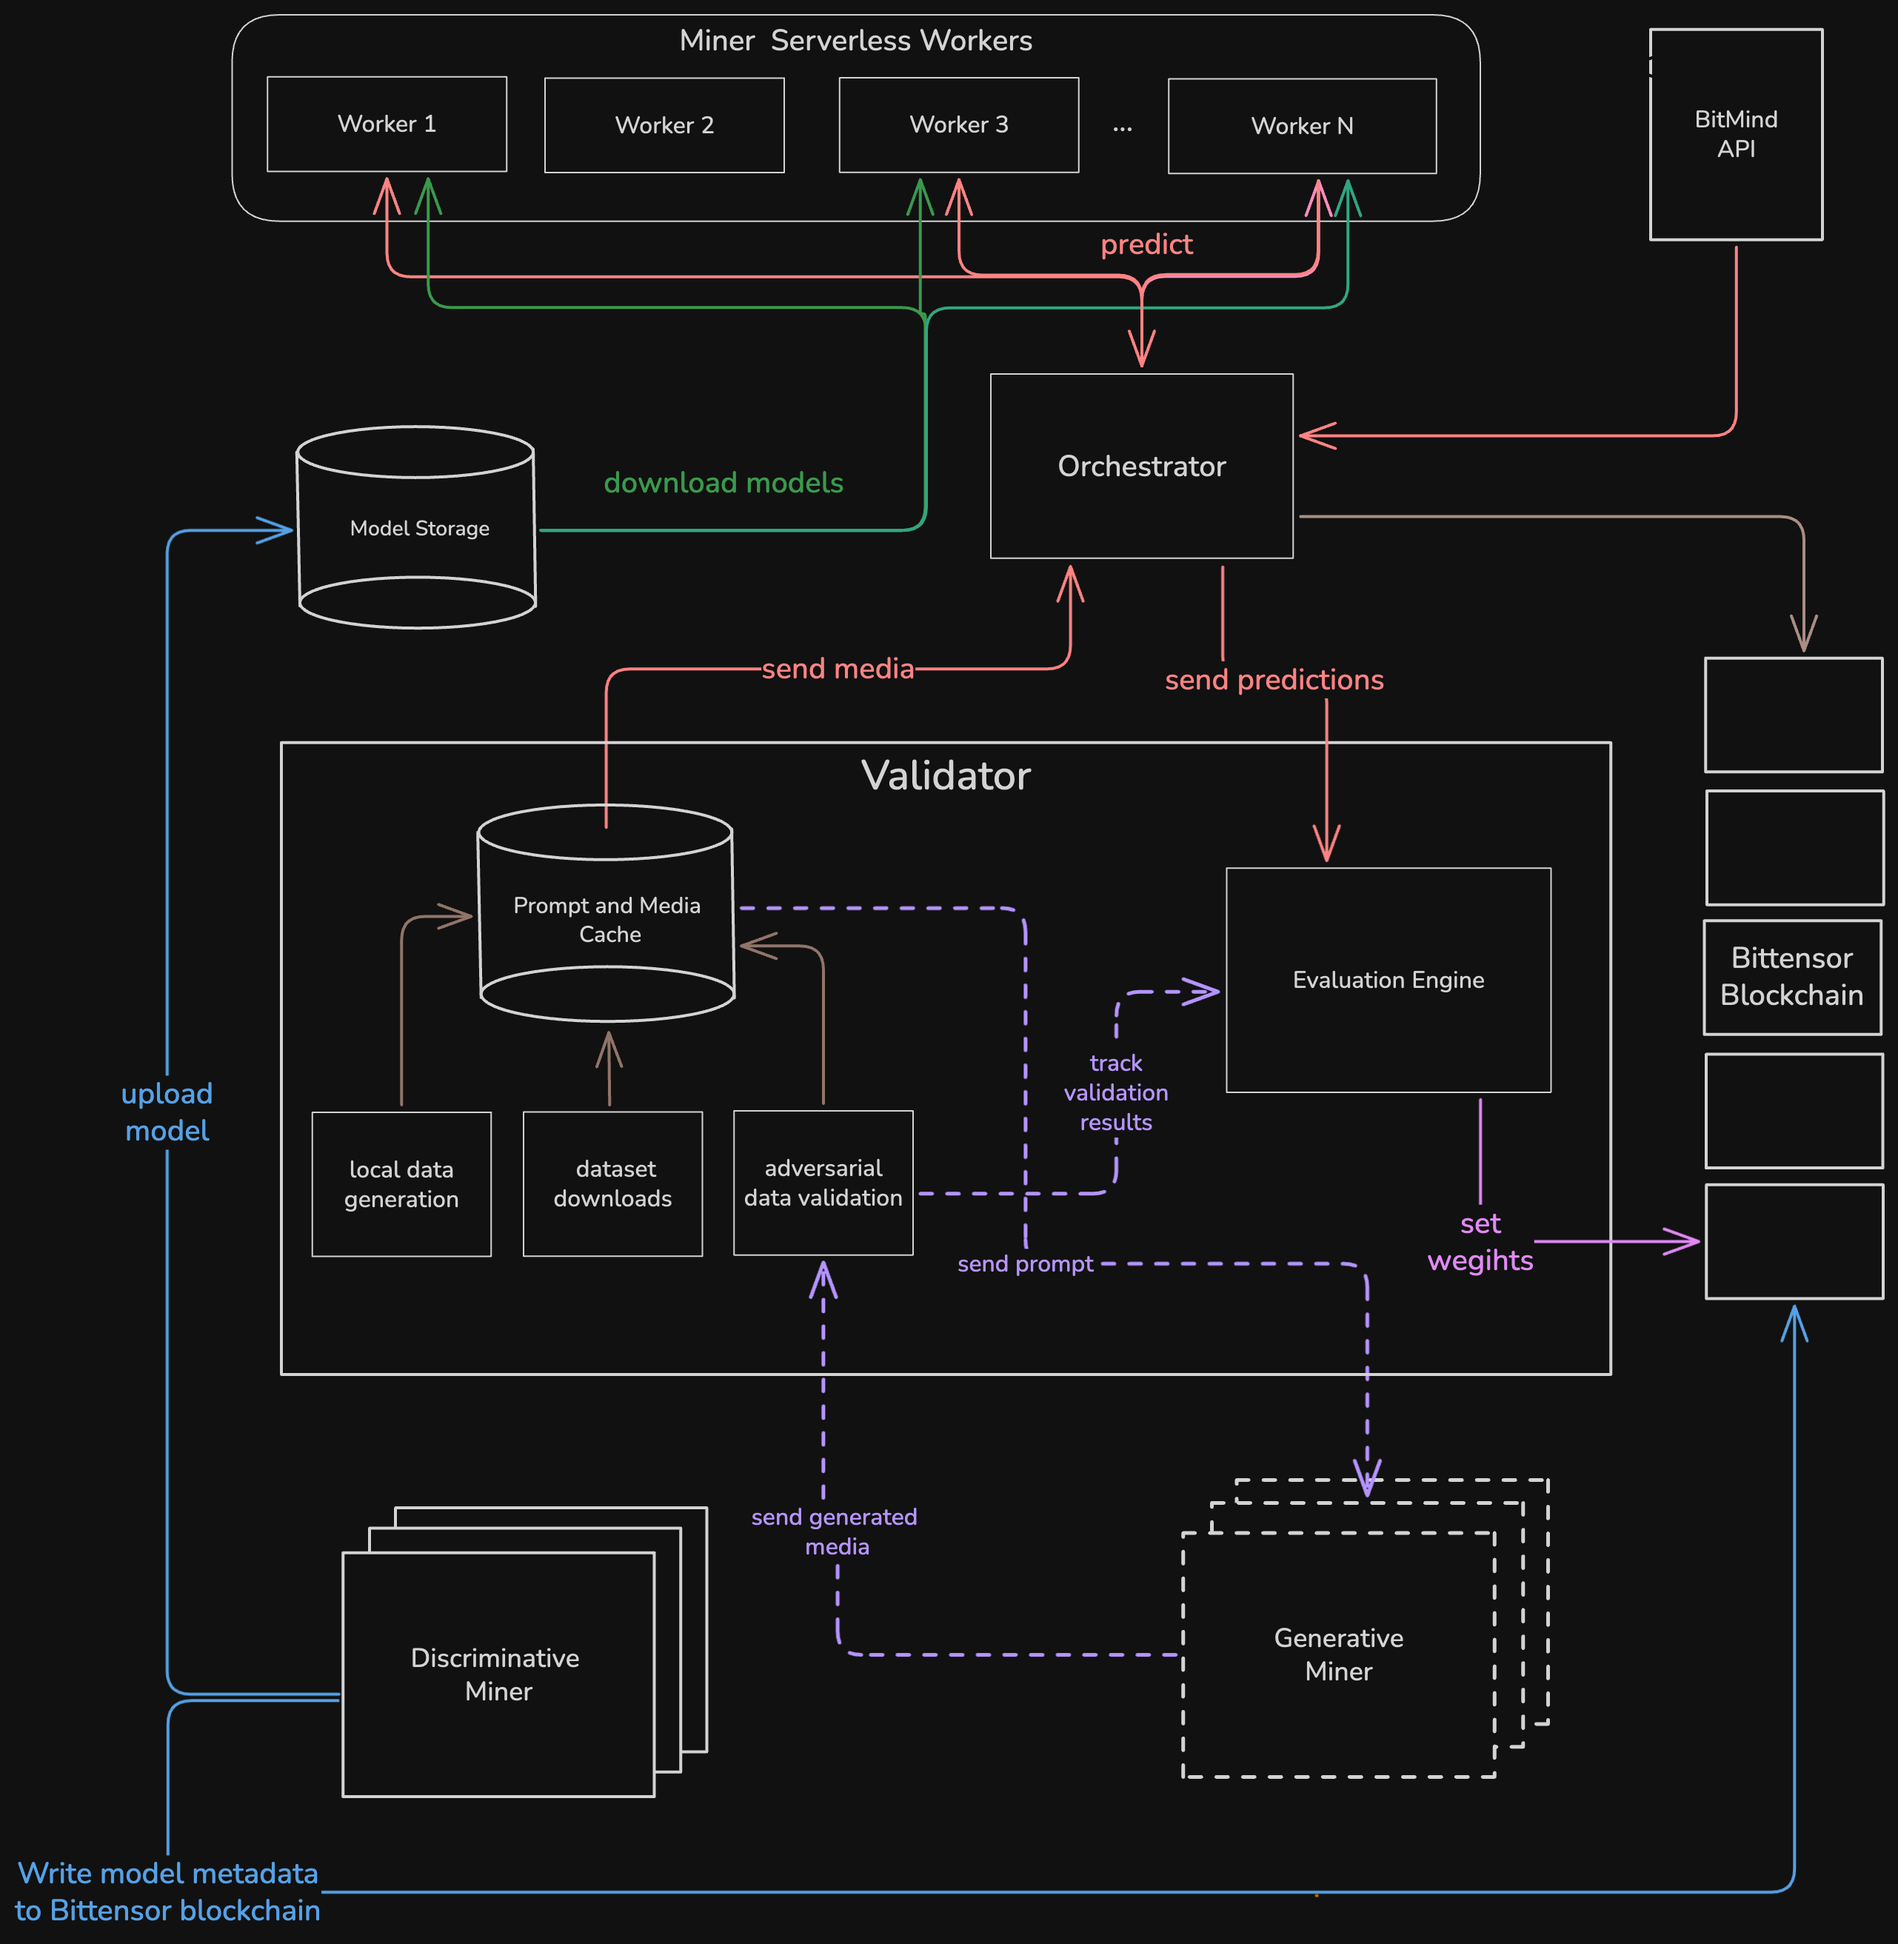
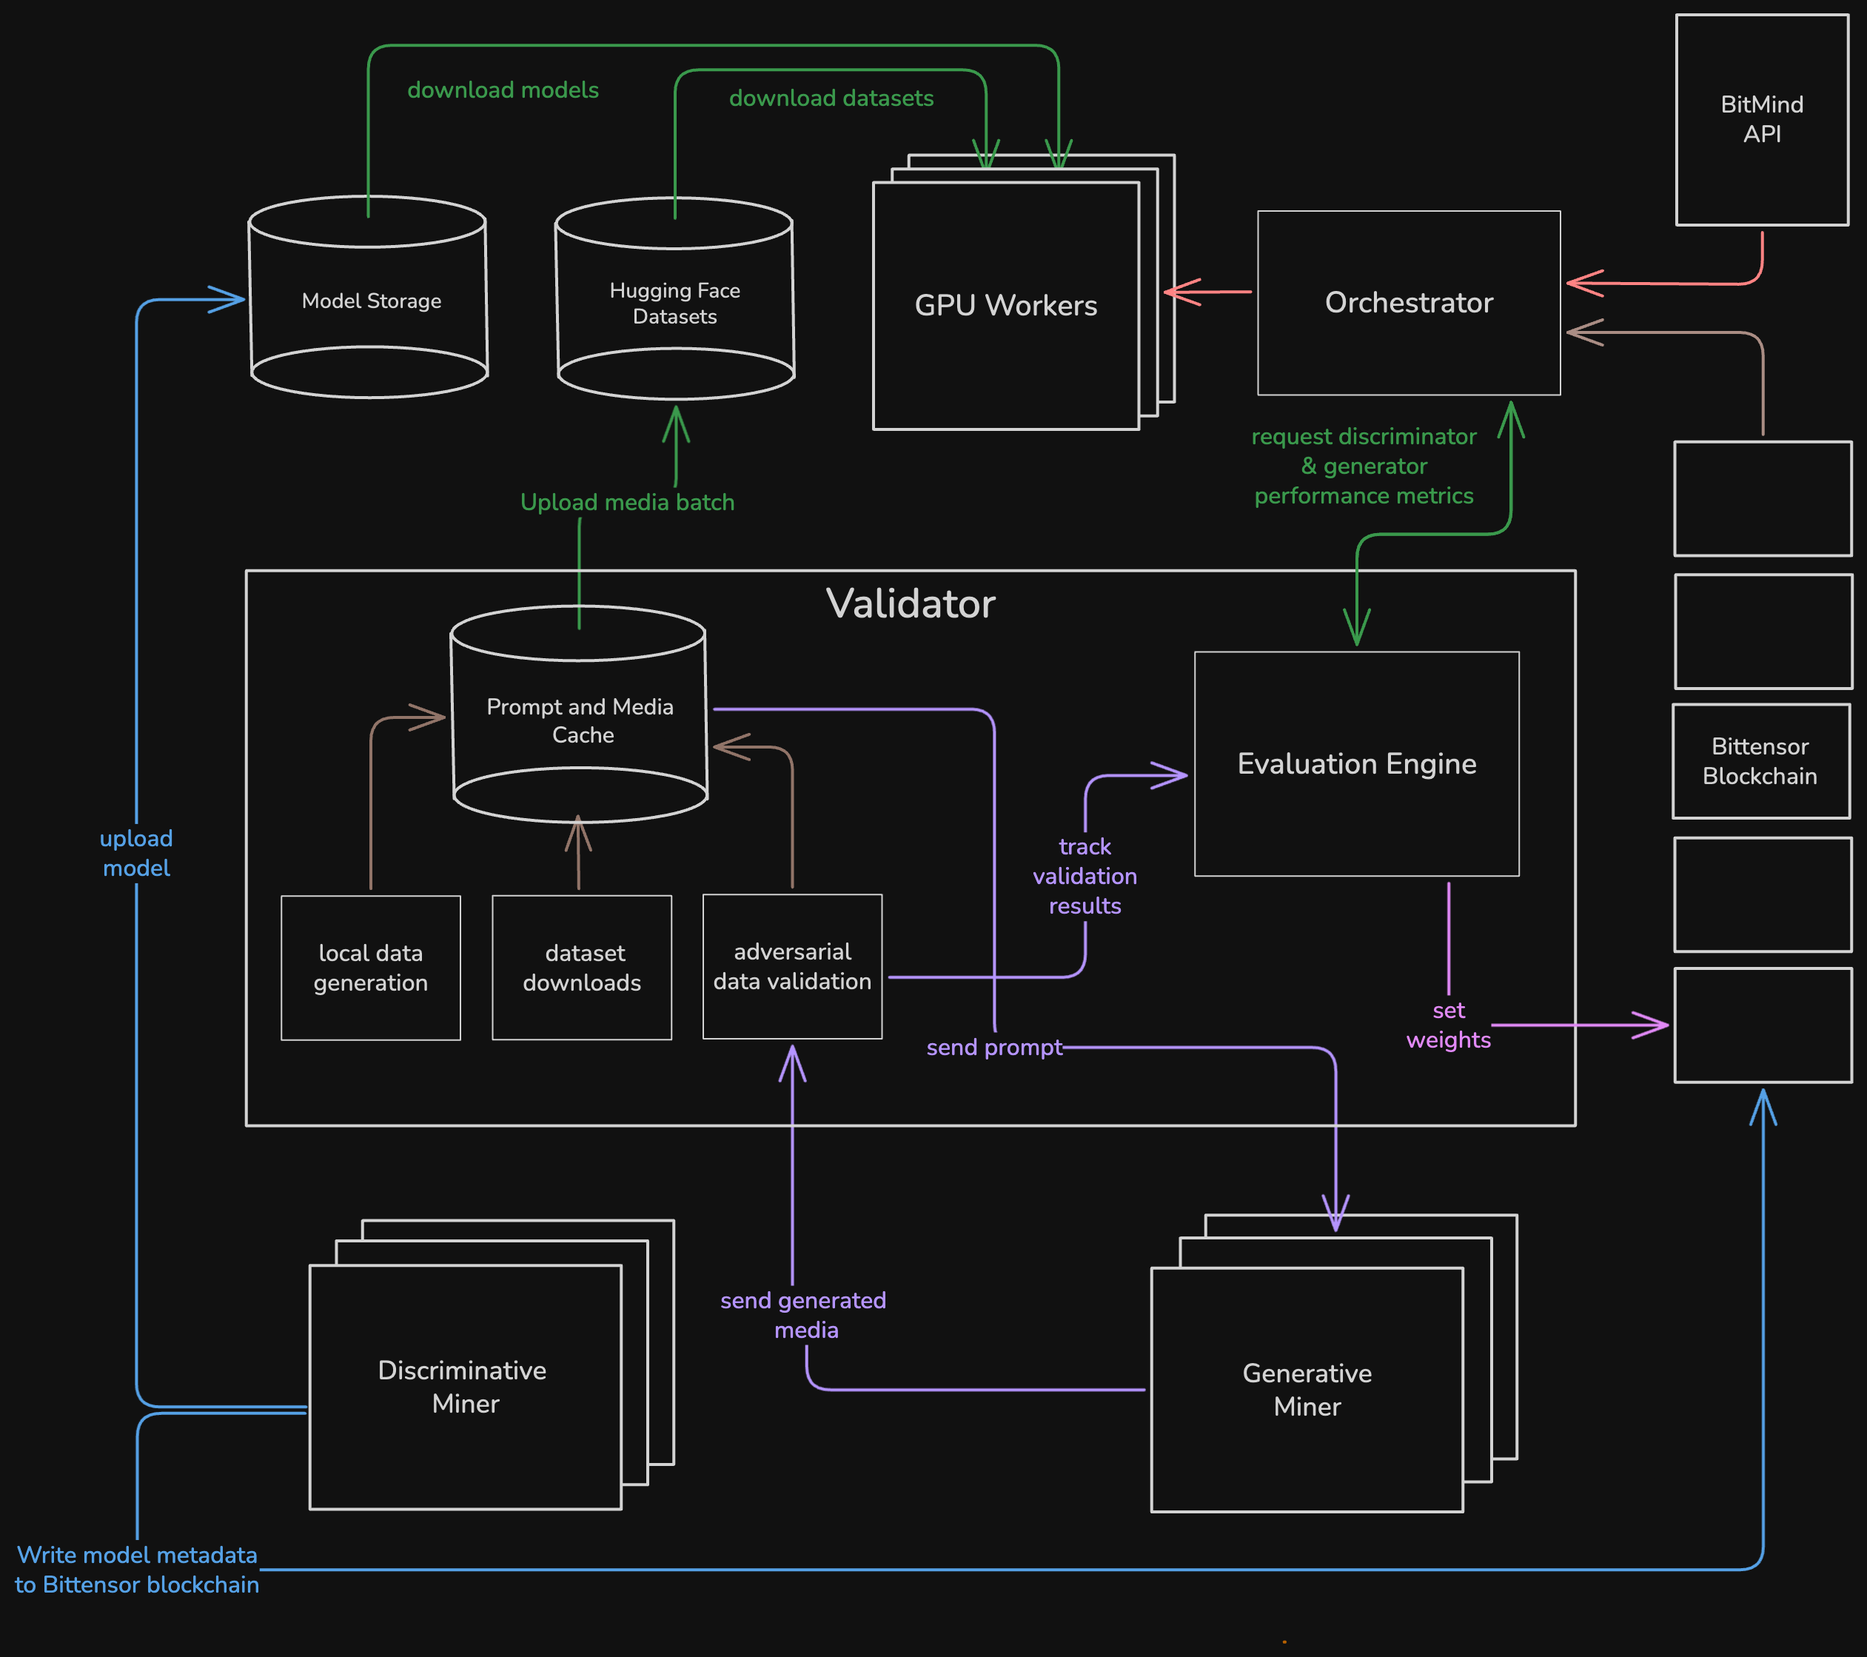
docs

diff --git a/docs/Generative-Mining.md b/docs/Generative-Mining.md
@@ -1,5 +1,226 @@
 # Generative Mining Guide
 
-🚧 **Coming Soon** 🚧
+## Before You Proceed
 
-Generative mining documentation will be available here shortly. 
+Follow the [Installation Guide](Installation.md) to set up your environment before proceeding with generative mining operations.
+
+## Generative Mining Overview
+
+Generative miners create synthetic media (images and videos) according to prompts from validators. Miners are rewarded based on their ability to:
+- Generate high-quality content that passes validation checks
+- Create convincing synthetic media that challenges discriminative miners  
+- Respond quickly to generation requests
+- Maintain consistent uptime and availability
+
+Generative miners operate as FastAPI servers that receive generation requests from validators and respond asynchronously via webhooks.
+
+## Configuration Setup
+
+### Environment Configuration
+
+Create a `.env.gen_miner` file in the project root to configure your generative miner:
+
+```bash
+# ======= Generative Miner Configuration =======
+
+# Wallet Configuration (Required)
+BT_WALLET_NAME=your_wallet_name
+BT_WALLET_HOTKEY=your_hotkey_name
+
+# Network Configuration
+BT_CHAIN_ENDPOINT=wss://entrypoint-finney.opentensor.ai:443
+BT_NETUID=34
+
+# Axon Configuration
+BT_AXON_PORT=8093
+BT_AXON_IP=0.0.0.0
+BT_AXON_EXTERNAL_IP=auto
+
+# Miner Settings
+MINER_DEVICE=auto
+MINER_OUTPUT_DIR=/tmp/generated_content
+MINER_MAX_CONCURRENT_TASKS=5
+MINER_TASK_TIMEOUT=300
+
+# Logging
+BT_LOGGING_LEVEL=info
+
+# API Keys (Optional - for 3rd party services)
+# Configure API keys for external services, or use local generation
+OPENAI_API_KEY=your_openai_api_key
+OPEN_ROUTER_API_KEY=your_openrouter_api_key
+
+# Optional Settings  
+AUTO_UPDATE=false
+MINER_NO_FORCE_VALIDATOR_PERMIT=false
+```
+
+### Network Configuration
+
+**Mainnet (SN34)**:
+```bash
+BT_CHAIN_ENDPOINT=wss://entrypoint-finney.opentensor.ai:443
+BT_NETUID=34
+```
+
+**Testnet (SN379)**:
+```bash
+BT_CHAIN_ENDPOINT=wss://test.finney.opentensor.ai:443
+BT_NETUID=379
+```
+
+## Generation Services
+
+Generative miners support multiple generation approaches. You can choose between external API services or local open source models:
+
+### OpenAI Service (DALL-E)
+- **API Key**: `OPENAI_API_KEY`
+- **Supported**: Image generation
+- **Models**: DALL-E 3, DALL-E 2
+
+### OpenRouter Service  
+- **API Key**: `OPEN_ROUTER_API_KEY`
+- **Supported**: Image generation
+- **Models**: Google Gemini Flash Image Preview, various other models
+- **Website**: [OpenRouter.ai](https://openrouter.ai)
+
+### Local Service (Open Source Models)
+- **API Key**: None required
+- **Supported**: Local model inference with open source models
+- **Models**: Stable Diffusion, FLUX, and other Hugging Face models
+- **Requirements**: GPU with sufficient VRAM (8GB+ recommended)
+- **Advantages**: No ongoing API costs, full control over models, privacy
+- **Note**: Requires additional model setup and local compute resources
+
+**Important**: Configure at least one generation method (API service OR local models) for your miner to be functional. Local generation with open source models is a cost-effective alternative to paid API services.
+
+## Starting the Miner
+
+### Using gascli (Recommended)
+
+First, activate the virtual environment:
+```bash
+source .venv/bin/activate
+```
+
+Start the generative miner:
+```bash
+# Start the miner
+gascli generator start
+
+# Using aliases
+gascli gen start
+gascli g start
+```
+
+### Alternative Method
+
+You can also start the miner using PM2 directly:
+```bash
+pm2 start gen_miner.config.js
+```
+
+## Miner Management
+
+### Status and Monitoring
+
+```bash
+# Check miner status
+gascli generator status
+
+# View miner logs  
+gascli generator logs
+
+# Follow logs in real-time
+gascli generator logs --follow
+
+# Show miner configuration and API key status
+gascli generator info
+```
+
+### Starting and Stopping
+
+```bash
+# Start the miner
+gascli generator start
+
+# Stop the miner
+gascli generator stop
+
+# Restart the miner
+gascli generator restart
+
+# Delete the miner process
+gascli generator delete
+```
+
+## What Happens During Operation
+
+1. **Service Registration**: The miner registers on the Bittensor network with your wallet and hotkey
+2. **Service Initialization**: Available generation services are initialized (API services with key validation or local models)
+3. **Request Handling**: Validators send generation requests to your miner's FastAPI endpoints
+4. **Task Processing**: Requests are queued and processed using configured services (API or local models)
+5. **Webhook Responses**: Results are sent back to validators via webhook URLs
+6. **Reward Distribution**: Miners are scored based on generation quality and response time
+
+### API Endpoints
+
+Your miner exposes these endpoints for validators:
+
+- `POST /gen_image` - Image generation requests
+- `POST /gen_video` - Video generation requests (coming soon)
+- `GET /health` - Health check endpoint
+- `GET /miner_info` - Miner information and capabilities
+- `GET /status/{task_id}` - Task status queries
+
+## Configuration Parameters
+
+### Core Settings
+
+- `BT_WALLET_NAME`: Your Bittensor wallet name
+- `BT_WALLET_HOTKEY`: Your wallet hotkey name  
+- `BT_NETUID`: Subnet ID (34 for mainnet, 379 for testnet)
+- `BT_AXON_PORT`: Port for your miner's API server
+
+### Performance Settings
+
+- `MINER_MAX_CONCURRENT_TASKS`: Maximum parallel generation tasks (default: 5)
+- `MINER_TASK_TIMEOUT`: Maximum time per task in seconds (default: 300)
+- `MINER_OUTPUT_DIR`: Directory for generated content and logs
+- `MINER_DEVICE`: Computing device (`auto`, `cuda`, `cpu`)
+
+## Troubleshooting
+
+### Common Issues
+
+**Miner fails to start**:
+- Check wallet configuration in `.env.gen_miner`
+- Ensure virtual environment is activated
+- Verify network connectivity to chain endpoint
+
+**No generation services available**:
+- Check API key configuration with `gascli generator info`
+- Verify API keys are valid and have sufficient credits
+- Consider using local open source models as an alternative to API services
+- Check logs for service initialization errors
+
+**Low rewards**:
+- Monitor generation quality and response times
+- Ensure stable internet connection and uptime
+- Consider upgrading API service plans for better performance
+
+### Getting Help
+
+```bash
+# General help
+gascli generator --help
+
+# Command-specific help  
+gascli generator start --help
+gascli generator logs --help
+
+# Check service status
+gascli generator info
+```
+
+**Note**: Remember to activate the virtual environment with `source .venv/bin/activate` before running any `gascli` commands. 

diff --git a/README.md b/README.md
@@ -86,8 +86,6 @@ Discriminative miners submit detection models for evaluation against a wide vari
 
 #### Generative Miners [[docs](docs/Generative-Mining.md)]
 
- (*coming soon*)
-
 Generative miners generate and modify media according to prompts generated by validators, and are rewarded based on their ability to pass validation checks and fool discrimintive miners.
 
 #### Validators [[docs](docs/Validating.md)]
